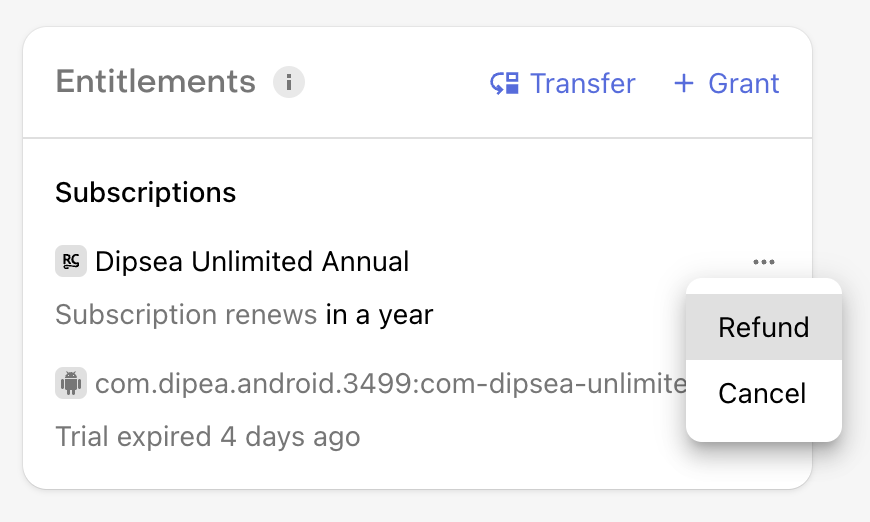
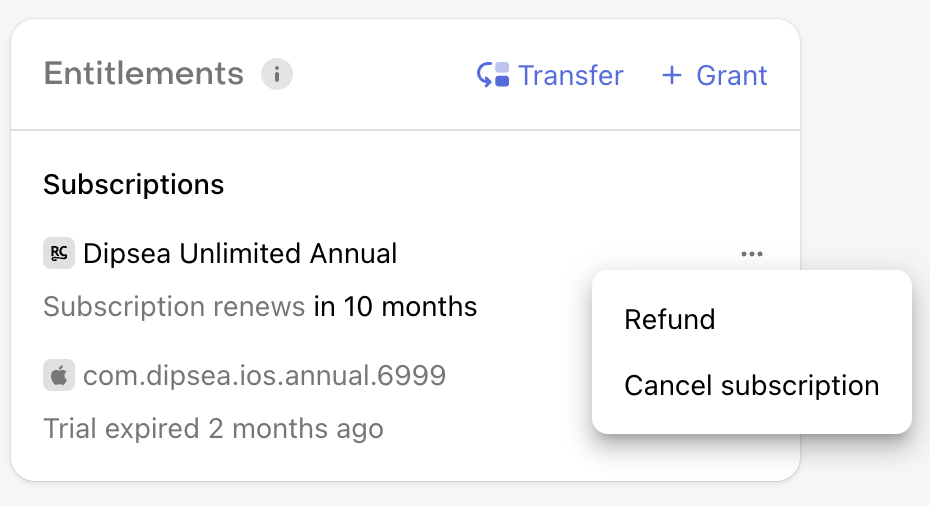
Update refund / cancel screenshot (#595)
* Update refund / cancel screenshot

* Update copy in some of the docs

diff --git a/docs/dashboard-and-metrics/supporting-your-customers.md b/docs/dashboard-and-metrics/supporting-your-customers.md
@@ -37,10 +37,10 @@ All of these events can be found in the Customer History on the Customer’s pro
 Not only can you see information about your customer’s subscriptions in the RevenueCat dashboard, but you can also perform certain actions (without ever needing to log into the stores).
 
 Here are some of the ways you can make changes to a customer’s subscription from RevenueCat:
-* _Issue a refund_ - Google Play purchases and purchases made through RevenueCat billing can be refunded directly through the RevenueCat dashboard. To refund a purchase, find the transaction event in the customer history and click “Refund” in the upper right corner. To learn more about how refunds work for Apple, Amazon, and Stripe, visit [Handling Refunds](/subscription-guidance/refunds).
-* _Cancel a subscription_ - If a subscription was purchased through RevenueCat billing, you can also cancel that purchase from the RevenueCat dashboard. To cancel a subscription, find the transaction event in the customer history and click “Cancel” in the upper right corner. Learn more about managing subscriptions with RevenueCat Billing [here](/web/revenuecat-billing/managing-customer-subscriptions).
+* _Issue a refund_ - Google Play purchases and purchases made through RevenueCat Billing can be refunded directly through the RevenueCat dashboard. To refund a purchase, find the transaction event in the customer history and click “Refund” in the upper right corner. To learn more about how refunds work for Apple, Amazon, and Stripe, visit [Handling Refunds](/subscription-guidance/refunds).
+* _Cancel a subscription_ - If a subscription was purchased through RevenueCat Billing, you can also cancel that purchase from the RevenueCat dashboard. To cancel a subscription, click on the "..." menu on the subscription in the "Entitlements" card of the customer profile and then select "Cancel subscription". Learn more about managing subscriptions with RevenueCat Billing [here](/web/revenuecat-billing/managing-customer-subscriptions).
 * _Transfer a subscription_ - In some cases you may want to manually transfer a subscription to a different user. The “Transfer” functionality can be found in the upper right corner of the customer profile page in the Entitlements section (details [here](/dashboard-and-metrics/customer-history/active-entitlements#transferring-entitlements) ). Please note that when you transfer a subscription you are not changing the underlying App Store account (for instance, the Apple Account) that owns the subscription. Because of this, the subscription may automatically be transferred again when the user restores purchases. The exact behavior will depend on your RevenueCat Project’s settings for [restoring purchases](/getting-started/restoring-purchases#transferring-purchases-seen-on-multiple-app-user-ids).
-* _Grant a promotional entitlement_ - With promotional entitlements you can also use RevenueCat to give users access to your products without involving any third party platform. For example, if you want to give a VIP user or a fellow employee free access to your app, you could grant them a promotional entitlement. Keep in mind this is purely a RevenueCat concept and therefore doesn’t change anything about a subscription they may have through the store. Learn more at our [Promotionals](/dashboard-and-metrics/customer-history/promotionals) documentation.
+* _Grant a promotional entitlement_ - With promotional entitlements you can also use RevenueCat to give users access to your products without involving any third party platform. For example, if you want to give a VIP user or a fellow employee free access to your app, you could grant them a promotional entitlement. Keep in mind this is purely a RevenueCat concept and therefore doesn’t change anything about a subscription they may have through the store. Learn more at our [Granted Entitlements](/dashboard-and-metrics/customer-history/promotionals) documentation.
 
 
 ### More Popular Features & FAQs
